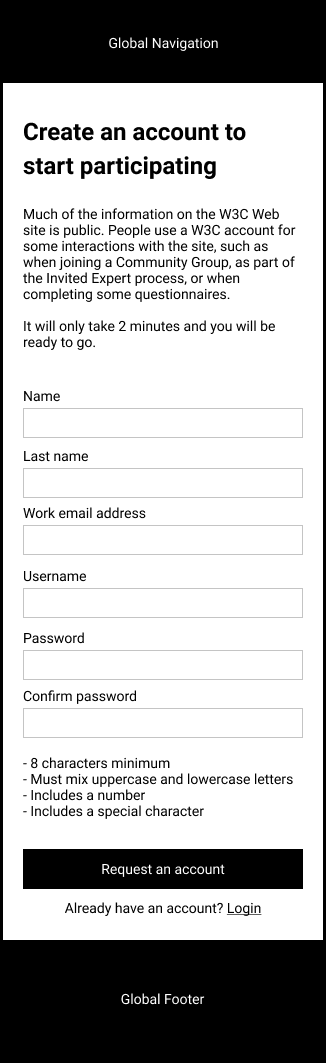
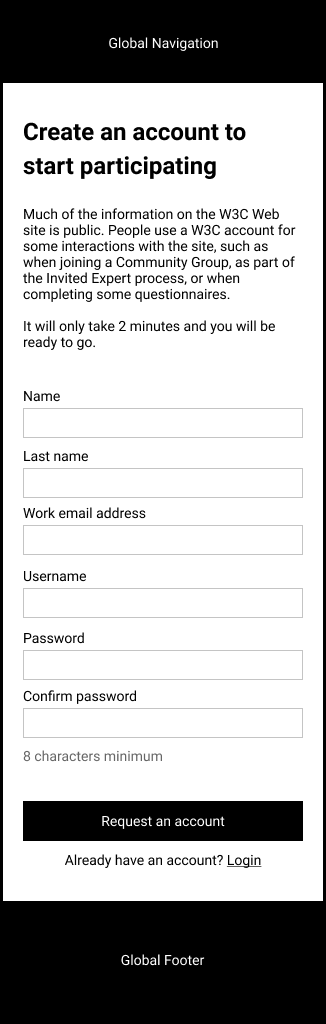
Updates to sitemap prior to project review meeting

diff --git a/_docs/2020-08-28-proposed-site-map-v2.md b/_docs/2020-08-28-proposed-site-map-v2.md
@@ -60,9 +60,8 @@ Links associated with whether a user is logged in.
 
 ### Logged in
 
-* User menu
+* My profile
   * Member home
-  * My account
   * Logout
 
 ## Footer navigation
@@ -132,6 +131,7 @@ explored further in the design phase.
   * Technical Architecture Group
   * Advisory Board
   * Task forces
+  * Organizations
   * Invited Experts
     * Directory of W3C Invited Experts
     * Invited Expert application (requires login)
@@ -184,14 +184,12 @@ Content related to getting involved in W3C activity, membership, sponsorship and
     * Membership submissions (cross-link)
     * Membership FAQ
   * Groups (cross-link)
-  * How to participate
+  * How to get an account (explain different ways to get involved and create accounts)
     * Members
     * Invited Experts
     * Public users (content to help individuals understand how they can get involved)
     * Code of ethics and professional conduct (cross-link)
   * Member home (requires login)
-    * Create an account on w3.org
-    * Instructions for members (requires login)
   * Promote Web Standards
     * Logos and icons
  
@@ -274,7 +272,6 @@ Content related to W3C, its mission, history and people, contact information, an
       * Patent policy
       * Privacy
       * URI persistence
-      * Mail (cross-link)
       * Logos
     * Agreements
       * Membership agreement

diff --git a/_posts/2020-09-02-content-design-sitemap-updates.md b/_posts/2020-09-02-content-design-sitemap-updates.md
@@ -1,0 +1,20 @@
+---
+layout: post
+title: Content design and sitemap updates
+categories:
+  - Information Architecture
+description: A few updates to the content design and sitemap documents
+author: Simon R Jones
+date: 2020-09-02
+---
+
+The following updates have been made to the content design and sitemap documents:
+
+* Updated [create account step 1](/wireframes/create-account-step1/) wireframe to simplify password requirements (only require min length)
+* Updated [Content Design slides](https://docs.google.com/presentation/d/16VQIUv2ugeZG8mNmAtZtHnaMo2E4y9x7YxKA_tPq-Xw/view#slide=id.g8bd347c6dc_0_0) with minor clarifications
+* Updated [sitemap](/docs/proposed-site-map-v2/) with changes:
+  * Added Groups > Organizations back since page is accessible by all users with Member access
+  * Changed Get Involved > "How to participate" to "How to get an account" to clearly reflect intent of page to explain how a user registers for an account across the different use cases
+  * Removed Involved > Member home > Create an account since "Member home" is only accessible by users with Member access
+  * Removed Mail cross-link from About > Policies since this is redundant
+  
